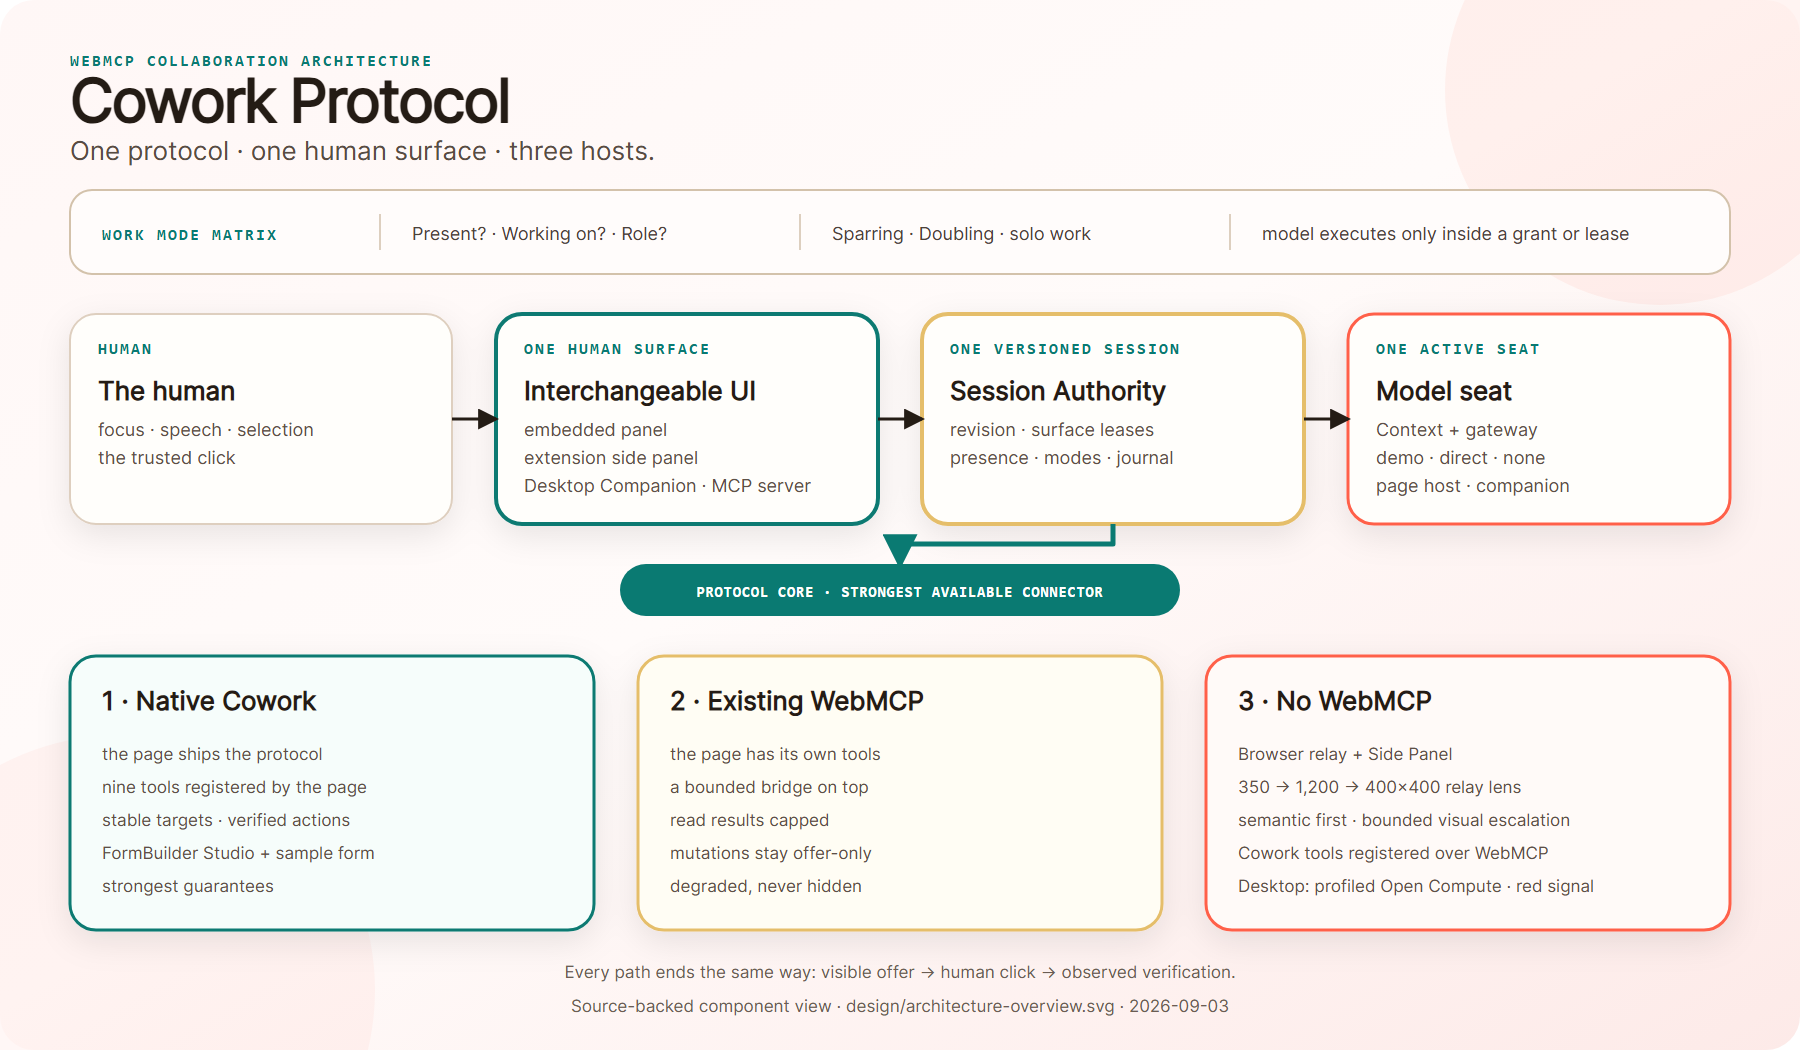
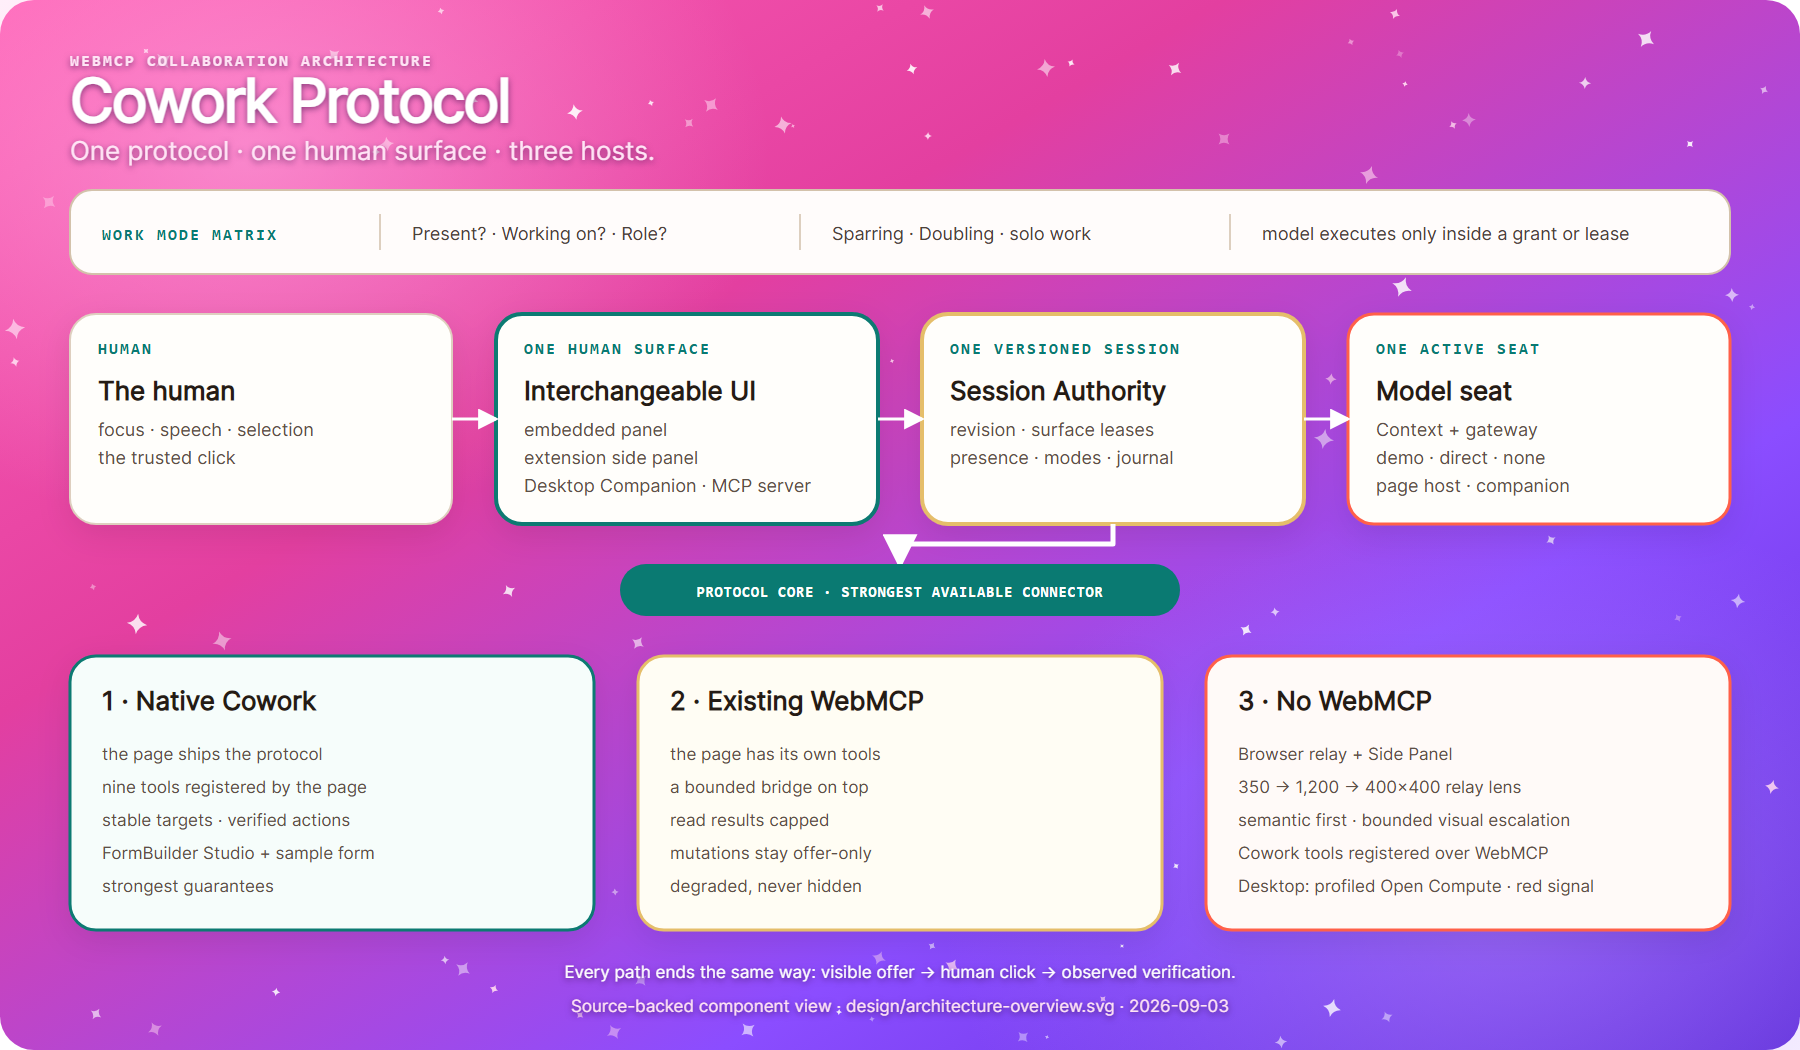
design: hot pink to violet with glitter on both diagrams
User's call on the background. Diagonal gradient #ff5fb4 to #5b2bd9, two soft
glows, and a scattered field of four-point sparkles placed only where no card
covers them, so the density reads evenly.

Layout and wording are untouched. Cards stay near-white with dark text, and
the labels that sit on the artwork - titles, axis labels, footnotes and the
connector arrows - turn white with a dark drop shadow.

diff --git a/apps/formbuilder-showcase/src/builder-cowork-ui.js b/apps/formbuilder-showcase/src/builder-cowork-ui.js
@@ -7,7 +7,7 @@
 
 import { classificationDisplayName, classificationOf, createField, FIELD_TYPE_PALETTE } from "./form-builder.mjs";
 import { createBuilderModelSuggester } from "./builder-model-suggester.js";
-import { BUILDER_CANVAS_TARGET_ID, builderFieldTargetId, createBuilderCoworkBridge } from "./builder-cowork.js";
+import { addFieldSummary, BUILDER_CANVAS_TARGET_ID, builderFieldTargetId, createBuilderCoworkBridge } from "./builder-cowork.js";
 import { classifyBuilderDirective } from "./builder-directive-classifier.js";
 
 const SUGGESTABLE_FIELDS = [
@@ -158,7 +158,7 @@ export function initBuilderCowork({ root = document, controller, modelSeat = nul
       const suggestion =
         SUGGESTABLE_FIELDS.find((candidate) => !existingLabels.has(candidate.label)) ?? SUGGESTABLE_FIELDS[0];
       const field = createField(suggestion.paletteId, { label: suggestion.label });
-      const summary = `Add a "${field.label}" field`;
+      const summary = addFieldSummary(field.label);
       proposeField(field, summary);
       return summary;
     }
@@ -170,7 +170,7 @@ export function initBuilderCowork({ root = document, controller, modelSeat = nul
       presence: presenceFor("present")
     });
     const field = createField(suggestion.paletteId, { label: suggestion.label });
-    const summary = suggestion.summary || `Add a "${field.label}" field`;
+    const summary = suggestion.summary || addFieldSummary(field.label);
     proposeField(field, summary);
     return summary;
   }
